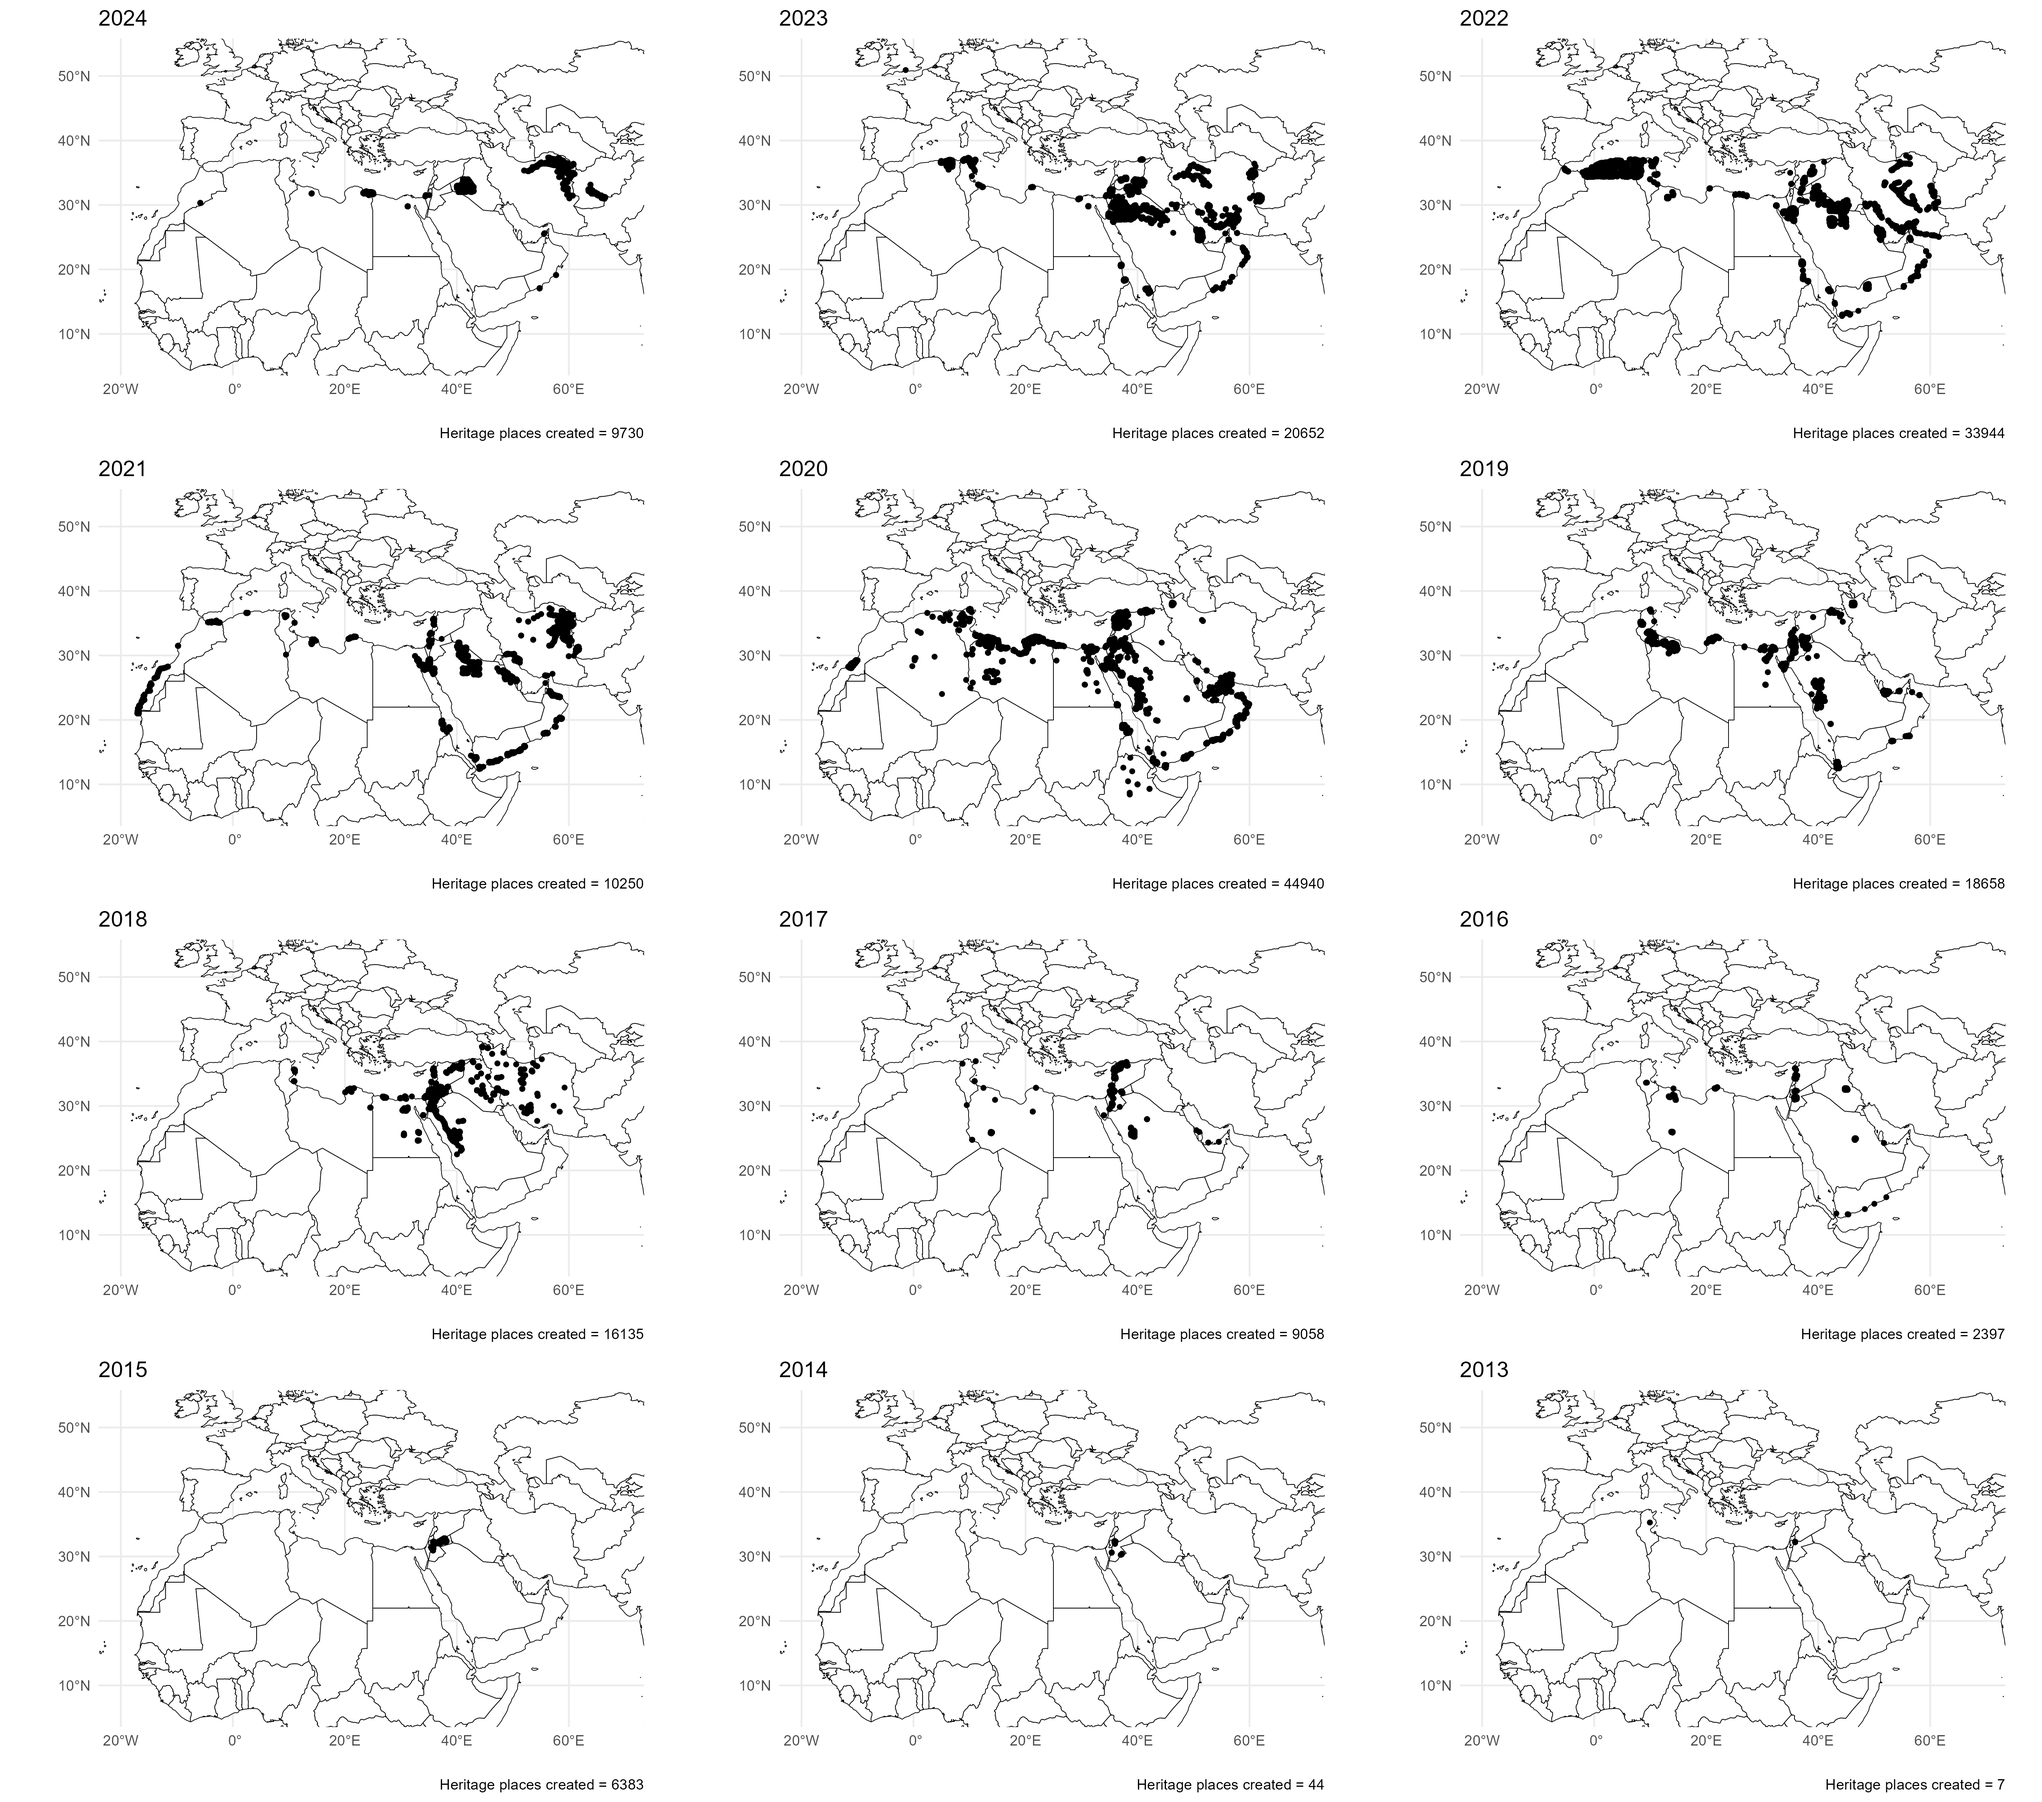
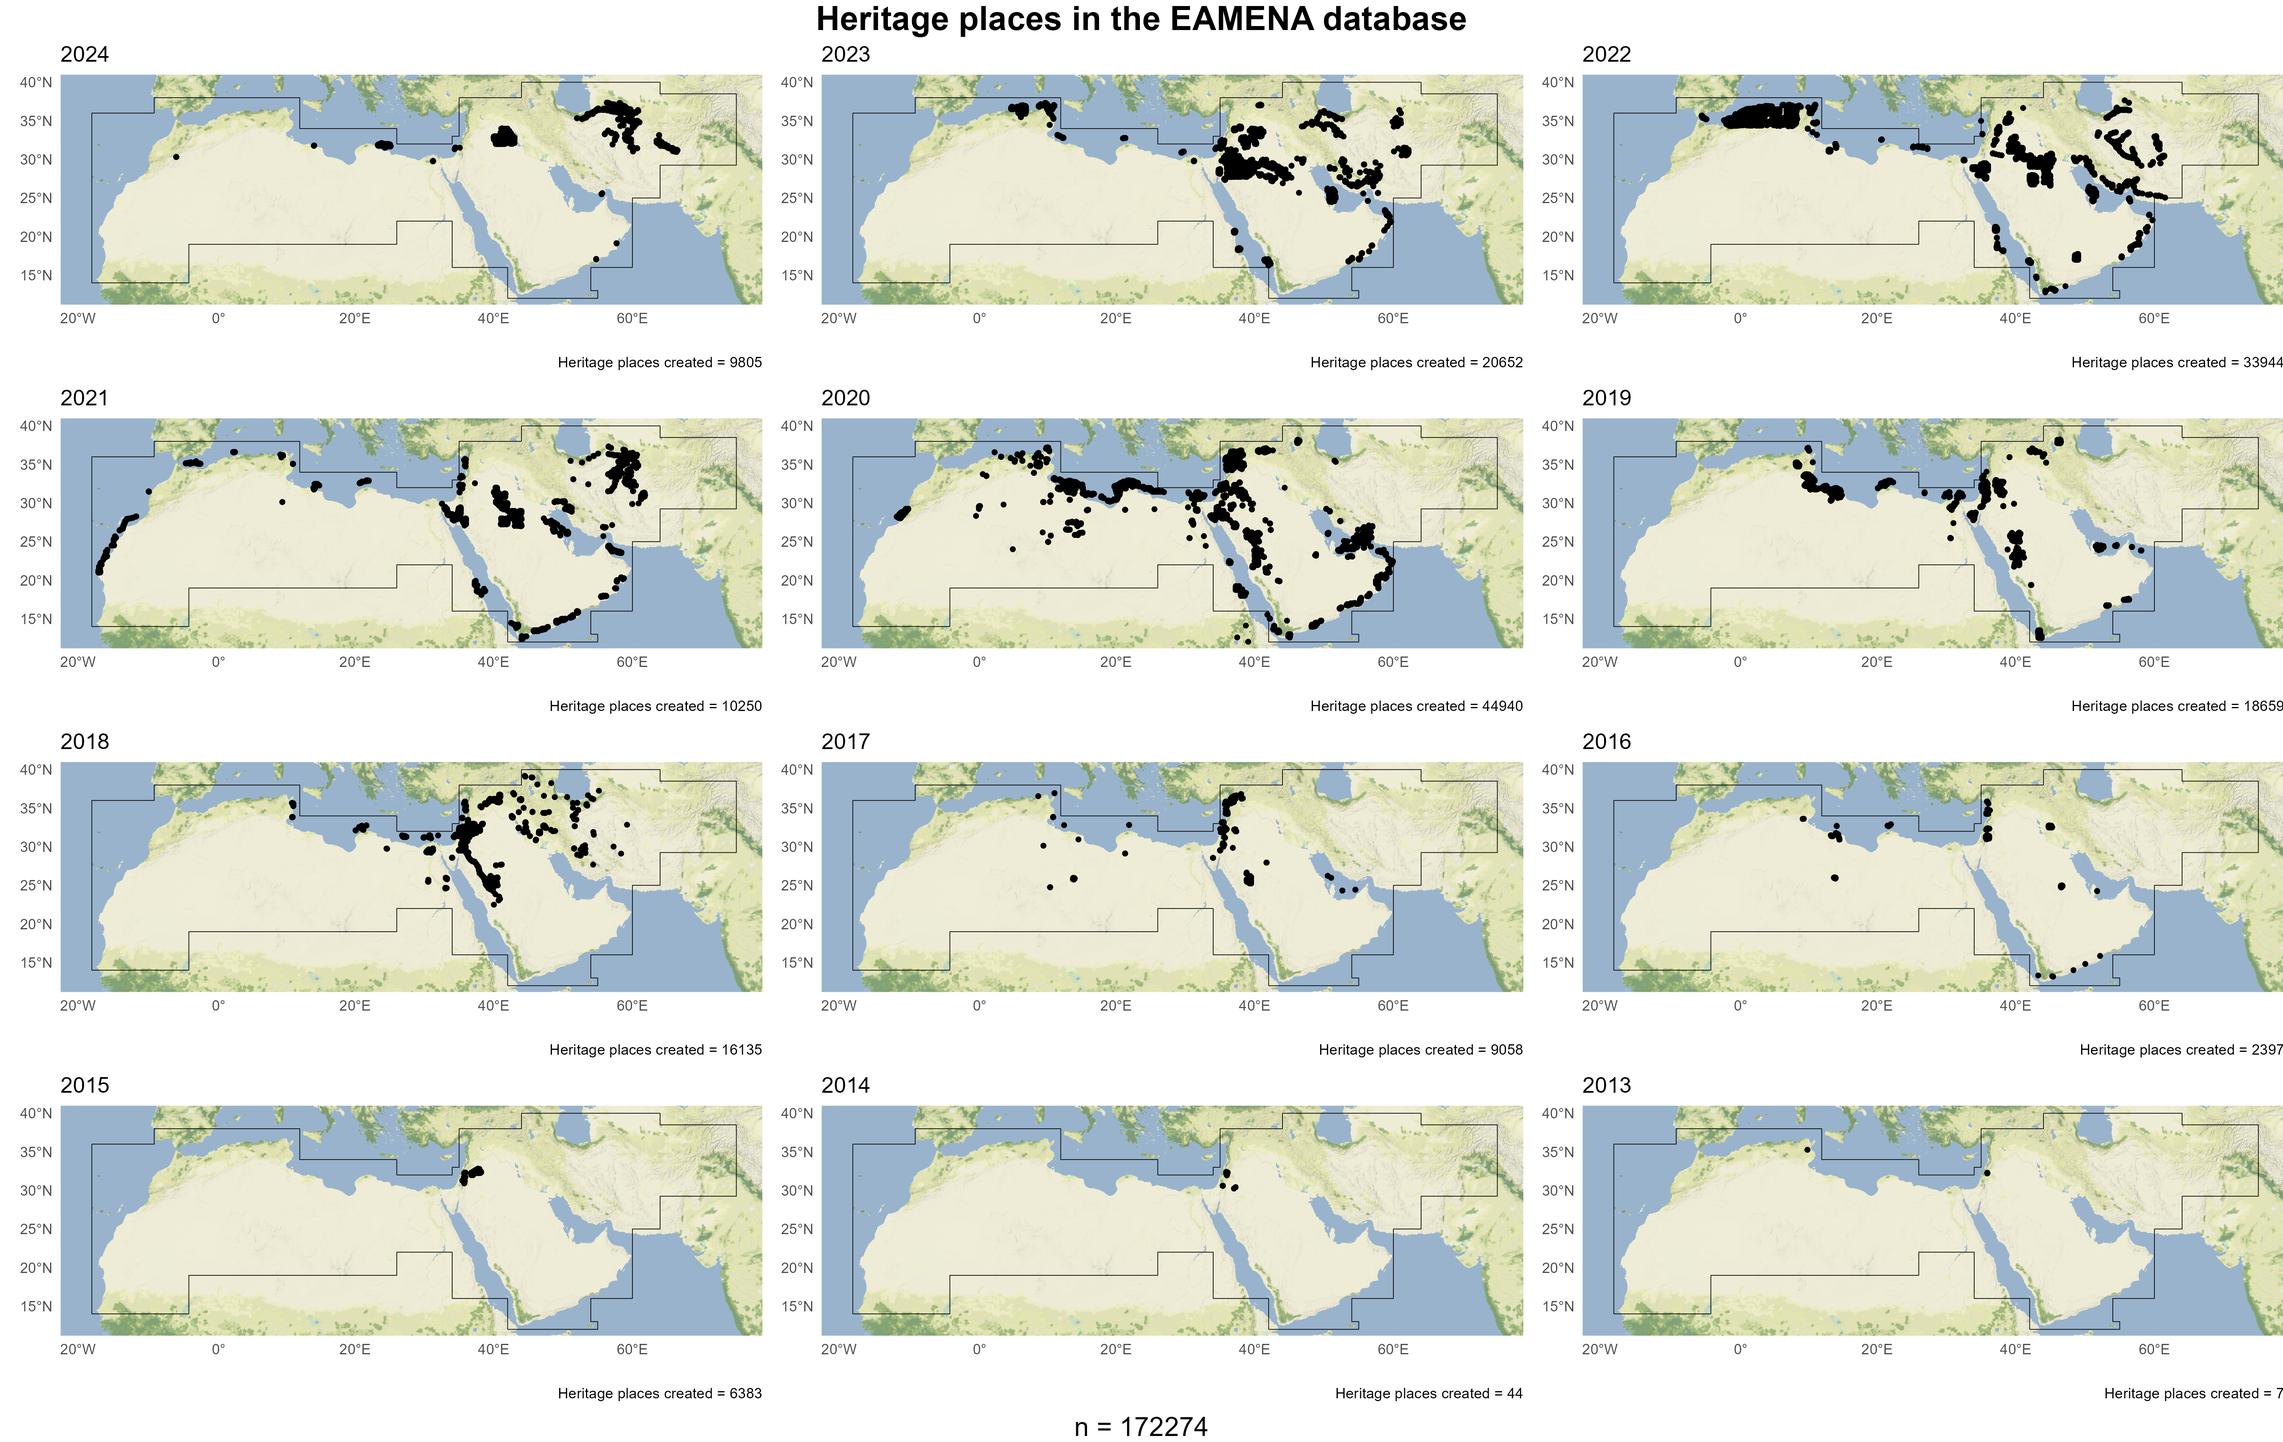
varia

diff --git a/talks/2024-jcaa/paper.md b/talks/2024-jcaa/paper.md
@@ -9,13 +9,14 @@ The EAMENA project (Endangered Archaeology in Middle East and North Africa) has 
 
 ## The EAMENA project background
 
-EAMENA project starts with the destruction of Palmyra in 2016 by ISIS. The purpose of the project was to map extansively the endangered inammovible cultural heritage in the Arabic speaking region, from Mauritania to Irak, identifying threats and causes of disturbances (Agricultural, Urbanist, etc.). 
+EAMENA project starts with the destruction of Palmyra in 2016 by ISIS. The purpose of the project was a comprehensive mapping of the endangered inammovible cultural heritage in the Arabic speaking region, from Mauritania to Iran (extended in 2023 to Afghanistan) though remote sensing. Precisely, the objectives was to identify pre identifying threats and causes of disturbances (Agricultural, Urbanist, etc.) over cultural heritage and archaeological sites, namely Heritage Places.
 
 ![](hps.png)
 
-This information aims to be released to a general audience, but also to alert national authorities on their endangered heritage. To cover the geographical scope of the project, and because of the difficulties to access field work (either for being in desertic remote areas and because of security issues) remote sensing has been the privilegied method to assess this cultural heritage (REF). 
-Cultural heritage assessment follows a methodology published over numerous support (YouTube videos, MOOC, PDF documents), along with numerous in-person and online training given in the MENA region. 
-The systematic remote sensing assessment has led to the recording of some > 200,000 heritage places, which some have already been published with a very different degree of agrrement with the international standards, but most of them are original heritage place that only EAMENA database gives access to. To highlight only these last years, EAMENA comprehensive surveys has led to the discovery of **354** new 'desert kites' hunting structures[^6] in northern Arabia and at least **3** roman forts in western Jordan[^7]. The latter dataset gathers heritage places distant for more than 80 km in straight line from any inhabited places. 
+Remote sensing through satellite imagery offers three main insights: (i) since the MENA region has almost no forest cover, a large part of the built heritage is visible on the photographs, (ii) a significant number of heritage places are located desertic remote areas that can be hardly accessed by land, (iii) the MENA region is regularly politically shattered and some areas remains unsecure for scholars. 
+The information provided by the project aims to be released to a general audience, to scholars, but also to inform national authorities. Data input comes from trained landscape archaeologists from our universities (Oxford, Leicester, Durham), and from our MENA colleagues. Its methodology is supported by a large body of training material (YouTube videos, MOOC, PDF documents) have been made publically available and thanks to the Cultural Protection Fund delivered by the British Council, numerous in-person and remote trainings have been delivered to our MENA colleagues (REF). 
+The systematic remote sensing assessment, with contributions coming from XXX persons, has led to the recording of some > 200,000 heritage places.
+ which some have already been published with a very different degree of agrrement with the international standards, but most of them are original heritage place that only EAMENA database gives access to. To highlight only these last years, EAMENA comprehensive surveys has led to the discovery of **354** new 'desert kites' hunting structures[^6] in northern Arabia and at least **3** roman forts in western Jordan[^7]. The latter dataset gathers heritage places distant for more than 80 km in straight line from any inhabited places. 
 
 ## IT tools
 
@@ -109,6 +110,9 @@ And we can also mention the upcoming DISCO (aka, Arches for Science) which focus
 A region largely marked by large desertic remote areas but also closed borders. 
 EAMENA Arches-based database, just like the entire EAMENA project has been largely founded by the Arcadia charitable fund
 
+both  , and because of
+
+ML EAMENA for site detection, change detection, etc.
 
 ## Footnotes
 
